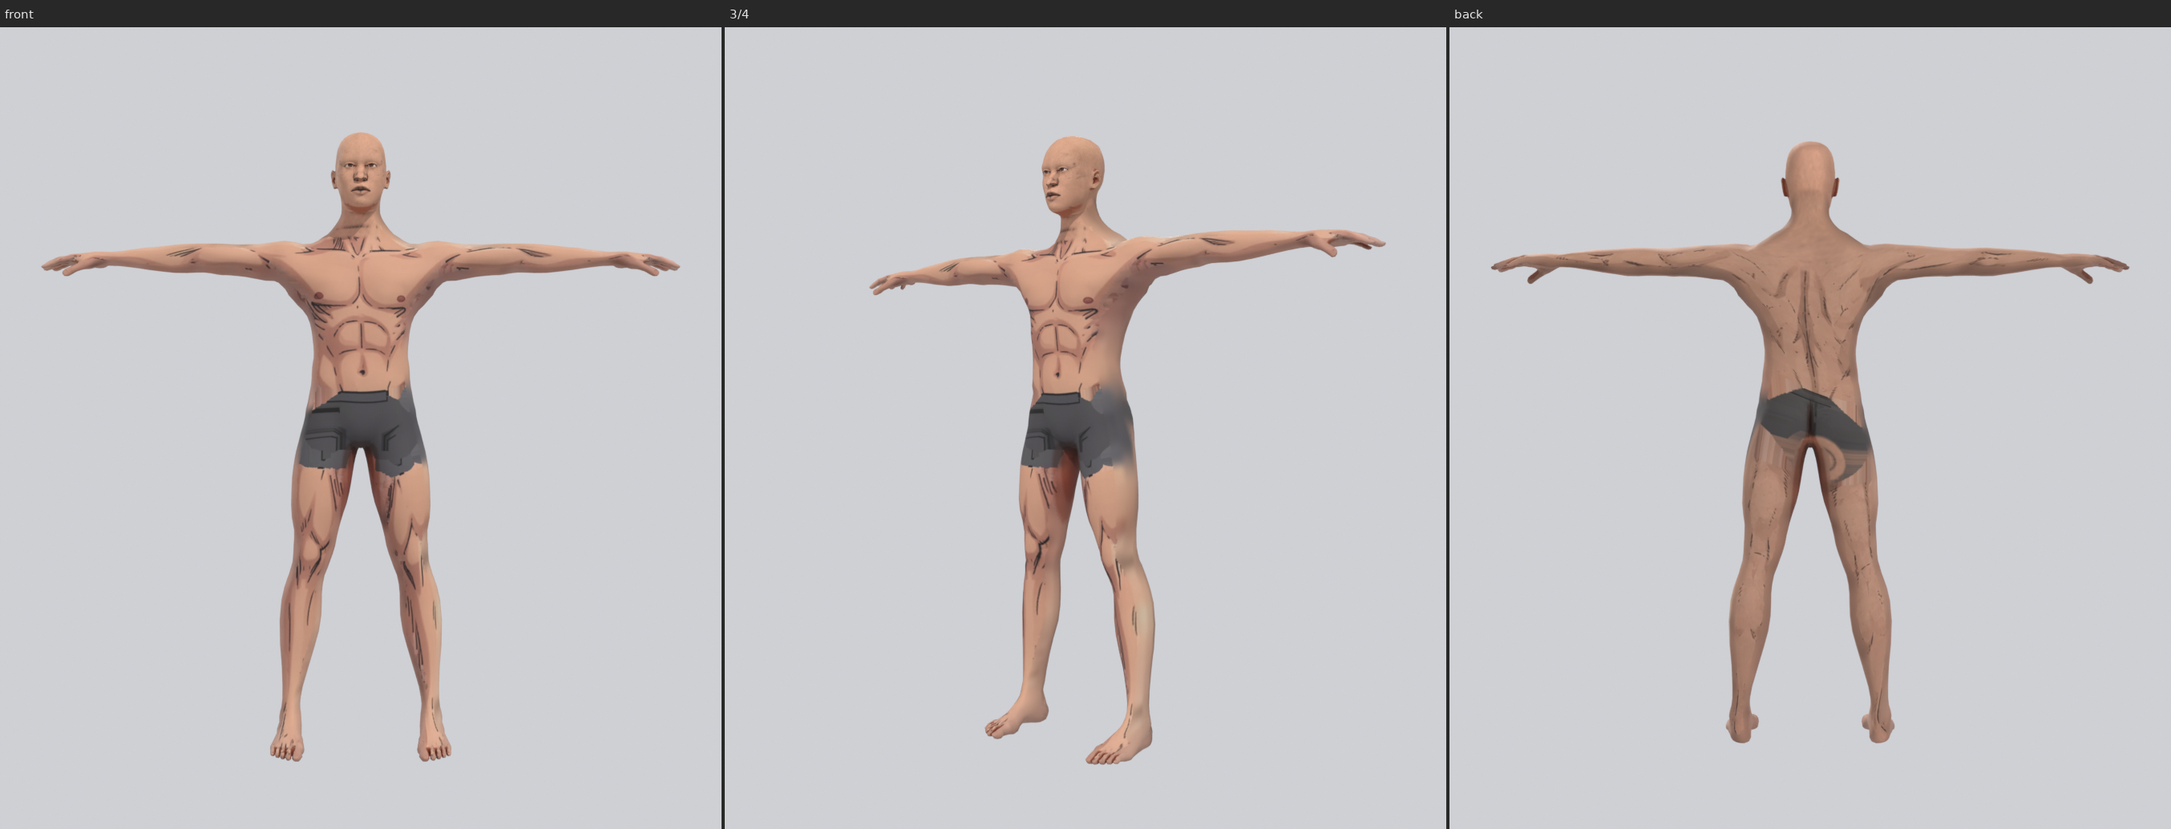
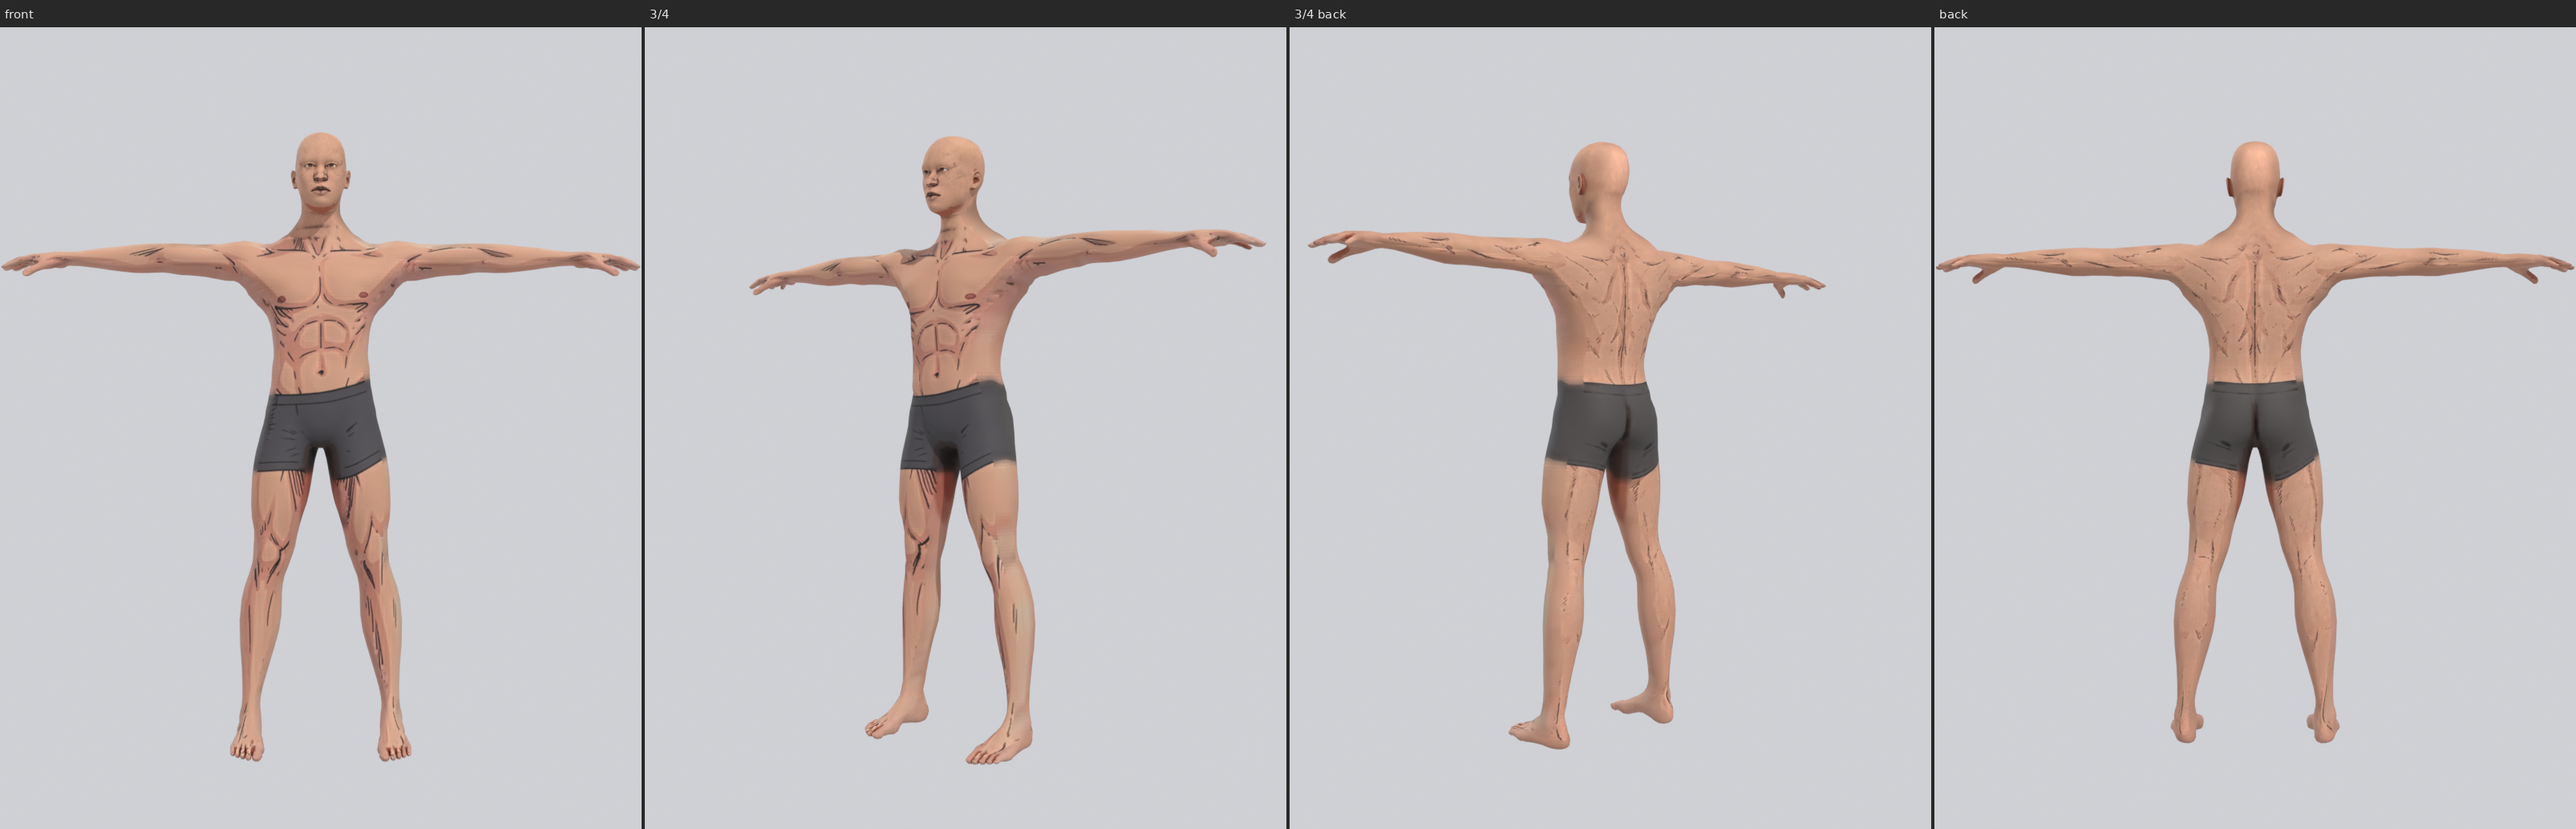
Male: polished 4096 drawn master, re-cut layers, previews and notes
Regenerated T_Body_Male_BaseColor_Drawn (4096), Masks, Beard and Brows
layers with the back-tone, boxers and face-ink fixes. Previews refreshed:
Male_FaceDrawn, Male_BodyDrawn (now front, 3/4, 3/4 back, back, lit the
same from every view), Male_FaceLayers. Session notes: Male status.

Claude-Session: https://claude.ai/code/session_01TBPC9oiq4ZiXdyCimD7YmM

Changed region(s): [[0.0, 0.1547, 1.0, 0.9284], [0.4963, 0.0, 0.5273, 0.0309]]

diff --git a/Docs/Session_Notes.md b/Docs/Session_Notes.md
@@ -139,19 +139,37 @@ mentolabial sulcus, the profile neck pins are measured on the mesh), and the mou
 the mouth-texture dark and kept out of the skin mask (`comic_paint.mouth_cavity`, used by both the
 procedural paint and the projection). The male was rebuilt (`build_base_body.py -- Male`: 56 bones,
 85 morphs, M_Skin/M_Eyes/M_Mouth, 0 unweighted, eyes/teeth/tongue on one bone each, jaw +20 opens
-cleanly), then `paint_base_body.py`, `project_reference.py` (polished over four render-and-measure
-cycles: body outline / shoulder black masses / rim light stripped from the drawings, HSV grading,
-3D gap fill for the head composite, 3D eye exclusion for the profile, beard-zone tone evening, no
-core shadow band under the chin, nape hair stripped) and `paint_mouth.py -- Male`. Checked on
-renders: eyes clean, lips natural, teeth off-white in Rage/Laugh, no dark blotches on neck,
-trapezius or shoulders (shoulder front 1 % dark texels, neck sides 0 %), under-chin band about
-1 cm at x0.78, stripped hair/brow/beard invisible, ink readable. Textures: `T_Body_Male_*` (drawn
-master at 4096, procedural `_BL`/`_TT` fallbacks, masks and layers at 2048), `T_Mouth_*`,
-`T_Eyes_*`. Previews: `Male_FaceDrawn.png`, `Male_BodyDrawn.png`, `Male_FaceLayers.png`,
-`Male_FaceAnim.png`, `Male_Emotes.png`. Known leftovers: a faint stroke of the stripped sideburn
-at the temple in the 3/4 view, the ears come from the profile's hair-strip fill (plain, no ear
-ink), and the drawing's lower-lip centre tick reads as a chin cleft. The Female rebuild, mouth
-texture and emote sheet from earlier still stand; her drawn texture is still not run (item above).
+cleanly), then `paint_base_body.py`, `project_reference.py` and `paint_mouth.py -- Male`.
+`project_reference.py` went through two polish passes (nine render-and-measure cycles at 2048,
+then the 4096 master): body outline / shoulder black masses / rim light stripped from the drawings,
+HSV grading, 3D gap fill for the head composite, 3D eye exclusion for the profile, beard-zone tone
+evening, no core shadow band under the chin, nape hair stripped; then, from the lead review:
+*back tone* (the back's projected texels get the front's lit-skin HSV by `match_skin_tone`, the
+front/back crossover is a 35 degree normal blend with a soft self-occlusion gate instead of a hard
+visibility cut, and `even_skin` pulls the drawings' dark side shading and the back's hatched tone
+towards the chest's lit tone at 3 cm scale, strength 0.75, ink keeps its contrast), *boxers*
+(`strip_outline` no longer eats the grey garment as outline ink, the back drawing's auto hair strip
+is limited to the nape polygon instead of also painting a skin blob over the dark crotch, which was
+the swirl on the buttocks, `clean_cloth` reduces the garment to one flat grey plus its thin seam
+lines and `even_cloth` flattens it on the texels, and the silhouette armpit anchor is found from
+the hand-to-hip line so the back drawing no longer skews and the waistband is level all round),
+*face ink* (`strengthen_ink` is a levels curve: gamma 2.5 below luminance 0.35, darkest pixels on
+the warm black, plus a 1 px widening ring). Measured on the texels: back/front lit-skin luminance
+ratio 0.998 (torso 1.009, legs 0.995, arms 0.994), hue difference 0.001, side-of-torso dip 6 %
+(was 14 %), garment low-frequency std 0.004 with 94 % of the 3D briefs mask grey, shoulder front
+1.2 % dark texels, neck sides 0 %, cavity leak 0. Checked on renders: eyes clean, lips natural,
+teeth off-white in Rage/Laugh, no dark blotches on neck, trapezius or shoulders, under-chin band
+about 1 cm, stripped hair/brow/beard invisible, lid wedge / nostrils / mouth line / nasolabial read
+as ink. Textures: `T_Body_Male_*` (drawn master at 4096, procedural `_BL`/`_TT` fallbacks, masks and
+layers at 2048), `T_Mouth_*`, `T_Eyes_*`. Previews: `Male_FaceDrawn.png`, `Male_BodyDrawn.png`
+(front, 3/4, 3/4 back, back; the preview lights follow the camera so the back is lit like the
+front), `Male_FaceLayers.png`, `Male_FaceAnim.png`, `Male_Emotes.png`. Known leftovers: a faint
+stroke of the stripped sideburn at the temple in the 3/4 view, the ears come from the profile's
+hair-strip fill (plain, no ear ink), the drawing's lower-lip centre tick reads as a chin cleft, the
+trapezius top keeps about 7 % dark texels from the drawings' own ink, and the drawn boxers reach
+about 3 cm above the 3D briefs mask top (the Masks texture follows the drawing, not the mask).
+The Female rebuild, mouth texture and emote sheet from earlier still stand; her drawn texture is
+still not run (item above).
 
 ## 4. What to do next on your PC
 
